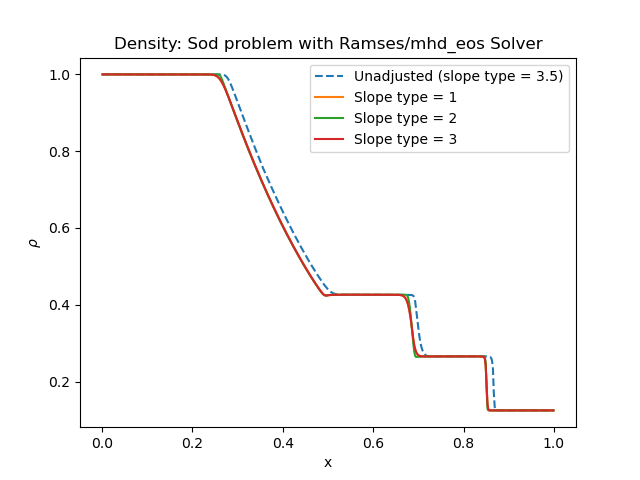
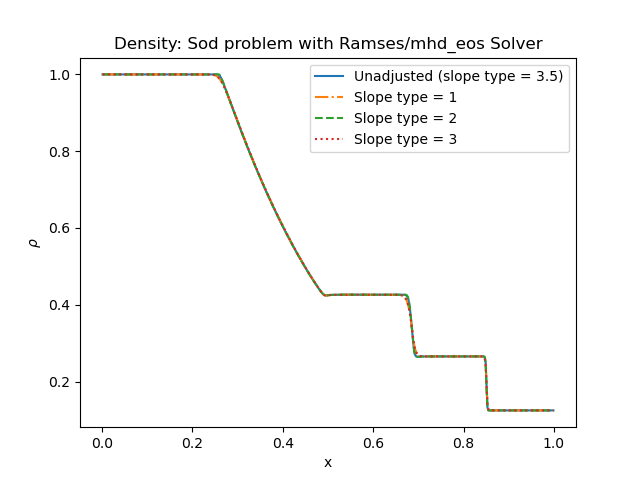
Updating figures for ramses solver and added additional text

diff --git a/docs/source/sod.rst b/docs/source/sod.rst
@@ -5,13 +5,14 @@ Here we will report the results of the Sod experiment
 
 Bifrost solver
 ===============
+First we are going to study the Sod experiment with the use of the Bifrost solver, that uses the initialBifrost parameters presented in the second table below.
 
 Initial conditions
 ------------------
 For the Sod problem we use
        * gamma = 1.4
        * Final time = 0,2 
-Below shows a table of the inital conditions for the left state and right state. These values will be used in all verifications for the Sod problem.
+Below shows a table of the inital conditions for the left state and right state. These values will be used in all verifications for the Sod problem including the Bifrost solver and Ramses/mhd_eos solver.
 
 +--------------+--------------+----------------+
 |  Quantities  |  Left state  |  Right state   |
@@ -42,18 +43,18 @@ Below shows a table of the inital conditions for the left state and right state.
 | 0.01 | 0.3 | 0.1 | 0.5 | 0.5 | 0.9 |
 +------+-----+-----+-----+-----+-----+
 
-The initial Bifrost parameters for the Sod-problem are presented in the table above. During test verifications we are going to change these parameters one at a time, while holding the other parameters constant.
+The initial Bifrost parameters for the Sod-problem are presented in the table above. During test verifications for the Bifrost solver below, we are going to change these parameters one at a time, while holding the other parameters constant.
 
-Density for all directions
---------------------------
+Density for all directions (Bifrost solver)
+--------------------------------------------
 To verify that the experiment for the Sod problem is working as it should, we plot the density for every direction x,y and z. If the code works, all three densities should behave the same. 
 
 .. image:: images_sod_bifrost/sod_bifrost_xyz_rho.png
 
 As we can see from the figure above, all three denisty curves lie on top of eachother.
 
-Adjusting all initial bifrost parameters
-----------------------------------------
+Adjusting all bifrost parameters (Bifrost solver)
+-------------------------------------------------
 The main part of our verification on the Sod Bifrost problem begins now where we want to change the initial bifrost parameters that are presented in the table above. To see how the different parameters affect the results, we change only one Bifrost parameter at a time while holding the other parameters unchanged.
 
 Below shows the density in x direction, where each curve represent the density in which one of the initial Bifrost parameters is either increased (Left figure) or decreased (Right figure):
@@ -75,8 +76,8 @@ Below shows the horizontal velocity ux in x direction, where each curve represen
     :scale: 70 %
     :width: 70 %
 
-Adjusting a single initial bifrost parameter
----------------------------------------------
+Adjusting a single bifrost parameter (Bifrost solver)
+-----------------------------------------------------
 From the results we got when addjusting all parameters, we found that only the parameters
        * U
        * d
@@ -102,8 +103,8 @@ And last but not least we have density and velocity for 6 different values of th
 
 .. image:: images_sod_bifrost/sod_bifrost_x_single_param_adjust_e_ux.png
 
-Resolution comparison
-----------------------
+Resolution comparison (Bifrost solver)
+--------------------------------------
 In all previous verifications for the Sod problem in the x-direction, we have splitted the x-axis in 5 different parts (dims = 5). For each part we divided the grid in n = 100 (&patch_params in the nml-file). Now we want to decrease the resolution to n = 50 and compare results with n = 100 for density, velocity and pressure.
 
 .. image:: images_sod_bifrost/sod_bifrost_x_res_comparison_n50_n100_rho.png
@@ -113,10 +114,16 @@ In all previous verifications for the Sod problem in the x-direction, we have sp
 
 Ramses/mhd_eos solver
 =====================
+Now we want to study the same Sod experiment with the use of Ramses/mhd_eos solver. Here we want to analyze the density rho and hoizontal velocity ux in x-direction for different slope type parameters (&ramses_params). The default/unadjusted slope type parameter is
+   * Unadjusted slope_type = 3.5
+
+During the use of the this particular solver we discovered and error in the Ramsese/mhd_eos solver whichwas later fixed. All the results below were produced with:
+   * Branch = develop
+   * Commit message hash: 5e8f853
 
 
-Density for all directions
---------------------------
+Density for all directions (Ramses/mhd_eos solver) 
+--------------------------------------------------
 We do the same verification as for the bifrost solver, by plotting the density for every direction x,y and z. If the code works, all three densities should behave the same.
 
 .. image:: images_sod_ramses/sod_ramses_xyz_rho.png
@@ -124,15 +131,21 @@ We do the same verification as for the bifrost solver, by plotting the density f
 As we can see from the figure above, all three denisty curves lie on top of eachother.
 
 
-Adjusting slope type parameter
-------------------------------
+Adjusting slope type parameter (Ramses/mhd_eos solver)
+------------------------------------------------------
+We addjust the slope type parameter by the following numbers
+   * slope_type1 = 1
+   * slope_type2 = 2
+   * slope_type3 = 3
+
+and plot the density rho and horizontal velocity ux in the x direction below:
 
 .. image:: images_sod_ramses/sod_ramses_x_different_slope_types_rho.png
 
 .. image:: images_sod_ramses/sod_ramses_x_different_slope_types_ux.png
 
-Resolution comparison with Ramses/mhd_eos solver
--------------------------------------------------
+Resolution comparison (Ramses/mhd_eos solver)
+----------------------------------------------
 Now we want to decrease the resolution to n = 50 and compare results with n = 100 for density and velocity.
 
 .. image:: images_sod_ramses/sod_ramses_x_res_comparison_n50_n100_rho.png
